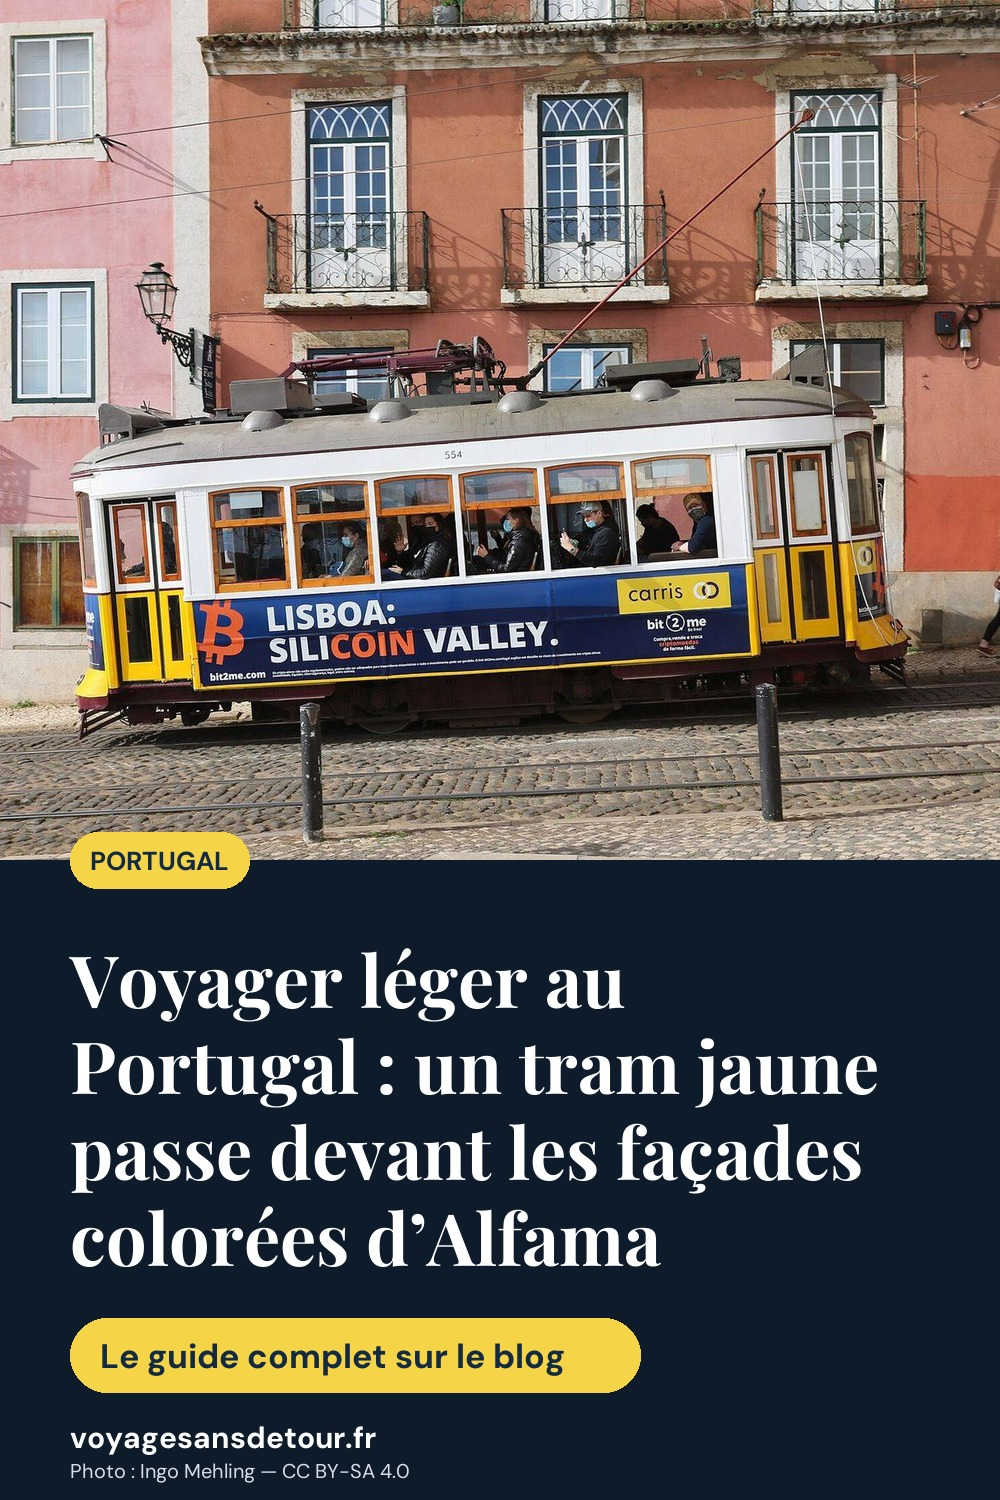
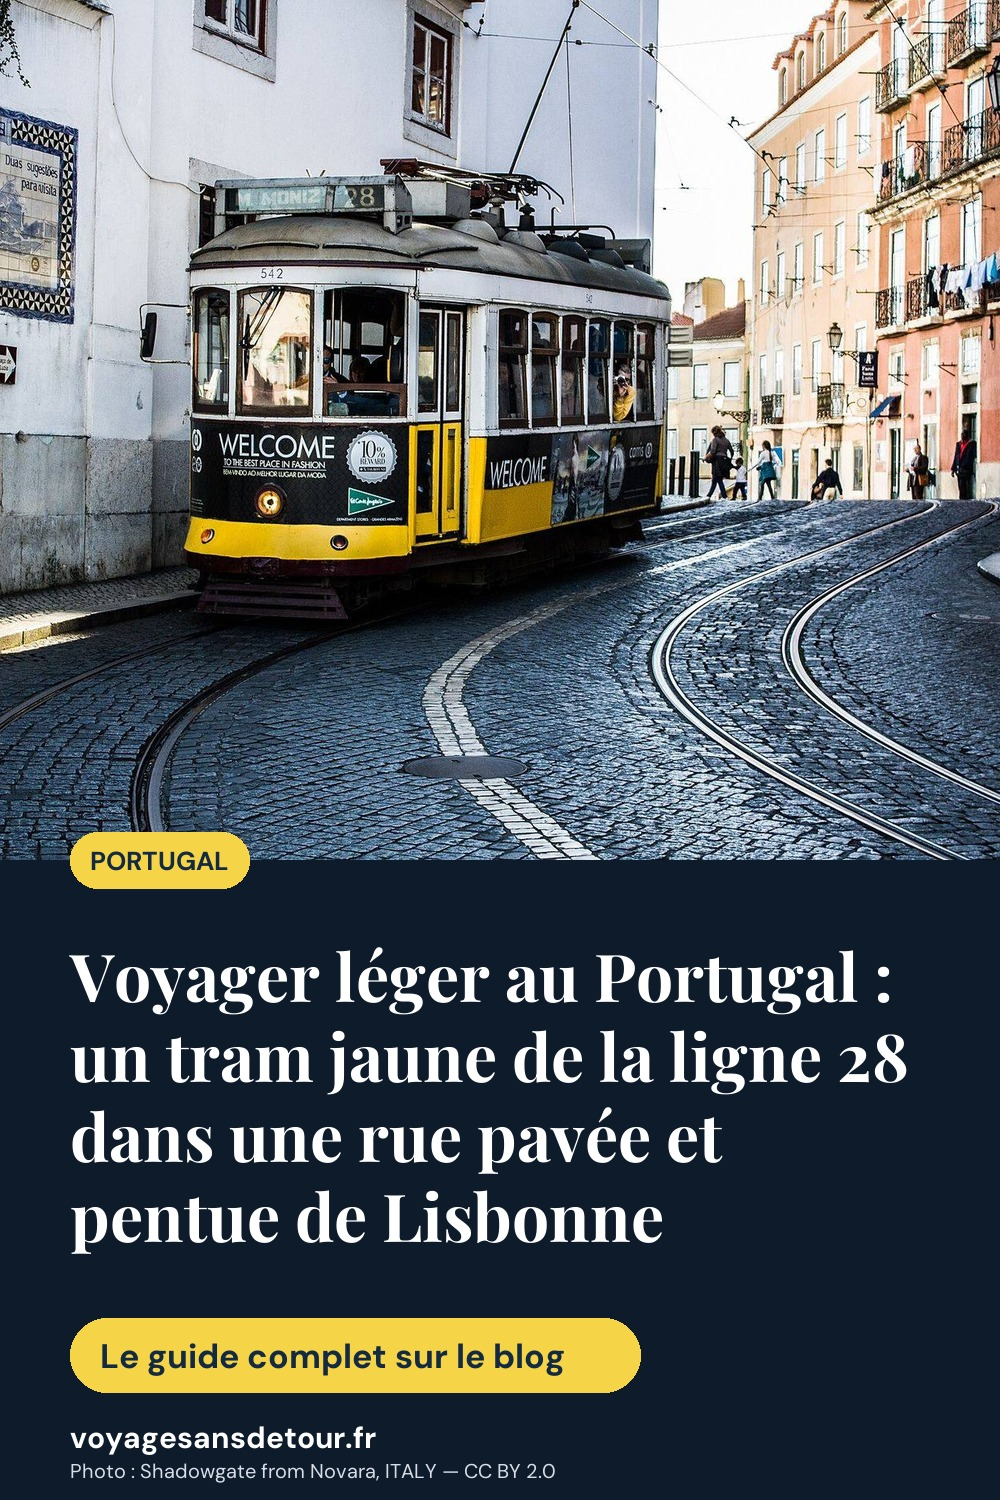
feat: admission des épingles Pinterest rallumée ; tram sans publicité pour l'épingle bagages (#58)
cadence.json pins.enabled true après relecture des brouillons (PR 55) ; le tram d'Alfama couvert d'une publicité de cryptomonnaie remplacé par le tram 28 dans les épingles. Une épingle par passage quotidien au plus, à partir du 17/11.

diff --git a/.github/vsd-production/test_pin_draft.py b/.github/vsd-production/test_pin_draft.py
@@ -213,4 +213,15 @@ class PinReviewOfPullRequest55(unittest.TestCase):
         self.assertFalse(place_names.strict_journey('20 min à pied de la Baixa à l’Alfama'))
         self.assertTrue(place_names.other_ride(place_names.vehicle('lisbonne-tram28',tram['alt_fr'],'File:Tram.jpg'),walk['label']))
 
+    def test_the_tram_with_an_advertisement_for_a_cryptocurrency_gives_way_to_the_tram_28(self):
+        # « LISBOA: SILICOIN VALLEY » on the tram of Alfama (bagages-c): the Pin takes the tram of line 28 in its place.
+        from pin_draft import guide_photos
+        with tempfile.TemporaryDirectory() as temp:
+            site=Path(temp);(site/'dist/assets/photos').mkdir(parents=True)
+            photos=[dict(PHOTO,id=name,file='photos/'+name+'.jpg',alt_fr=name) for name in ('lisbonne-bica','lisbonne-alfama-tram','lisbonne-tram-28')]
+            for photo in photos:Image.new('RGB',(1600,1067),'#7a9cc6').save(site/'dist/assets'/photo['file'])
+            (site/'image-sources.json').write_text(json.dumps({'photos':photos}))
+            guide=dict(GUIDE,cover='lisbonne-bica',sections=[{'image':'lisbonne-alfama-tram'}])
+            self.assertEqual([found[0]['id'] for found in guide_photos(guide,site)],['lisbonne-bica','lisbonne-tram-28'])
+
 if __name__=='__main__':unittest.main()

diff --git a/.github/vsd-production/pin_draft.py b/.github/vsd-production/pin_draft.py
@@ -290,6 +290,9 @@ def cover_photo(article, site):
 
 # Photos a Pin never takes, though the guide shows them: read on the image (review of the Pins, 15/11/2026).
 LEFT_OUT = {'lisbonne-santa-justa': "l'ascenseur de Santa Justa, fermé selon le guide « Où dormir à Lisbonne »"}
+# Photos a Pin shows in the place of the guide's own, same subject: the tram of Alfama carries an advertisement for a
+# cryptocurrency (« LISBOA: SILICOIN VALLEY », review of PR 55); the tram of line 28 stands for it.
+INSTEAD = {'lisbonne-alfama-tram': 'lisbonne-tram-28'}
 
 
 def taken_by_other_pins(slug, drafts=None):
@@ -315,7 +318,7 @@ def draft_slug(draft):
 def guide_photos(article, site):
     """The guide's photos in reading order, cover first, each once, only those that pass every check."""
     photos = catalogue(site)
-    ids = [article.get('cover')] + [section.get('image') for section in article.get('sections') or []]
+    ids = [INSTEAD.get(i, i) for i in [article.get('cover')] + [section.get('image') for section in article.get('sections') or []]]
     found = []
     for identity in dict.fromkeys(i for i in ids if i and i not in LEFT_OUT):
         try:
